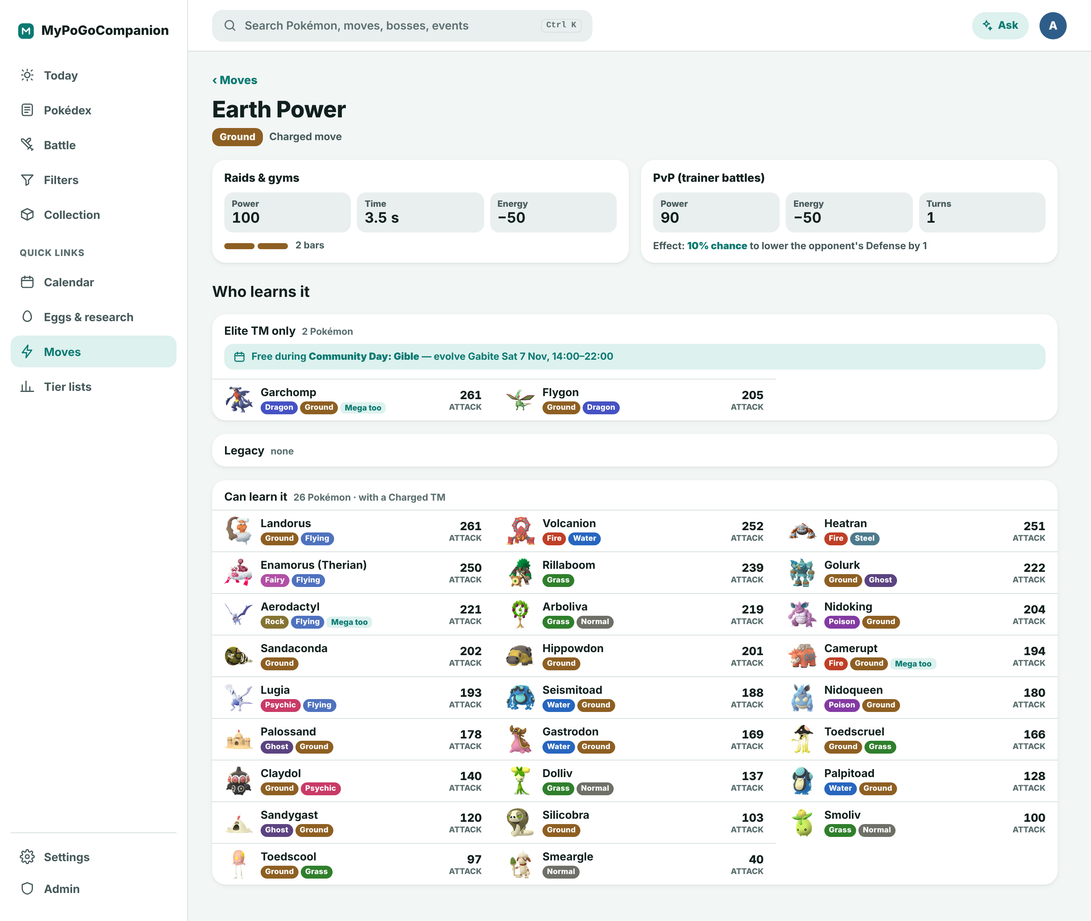
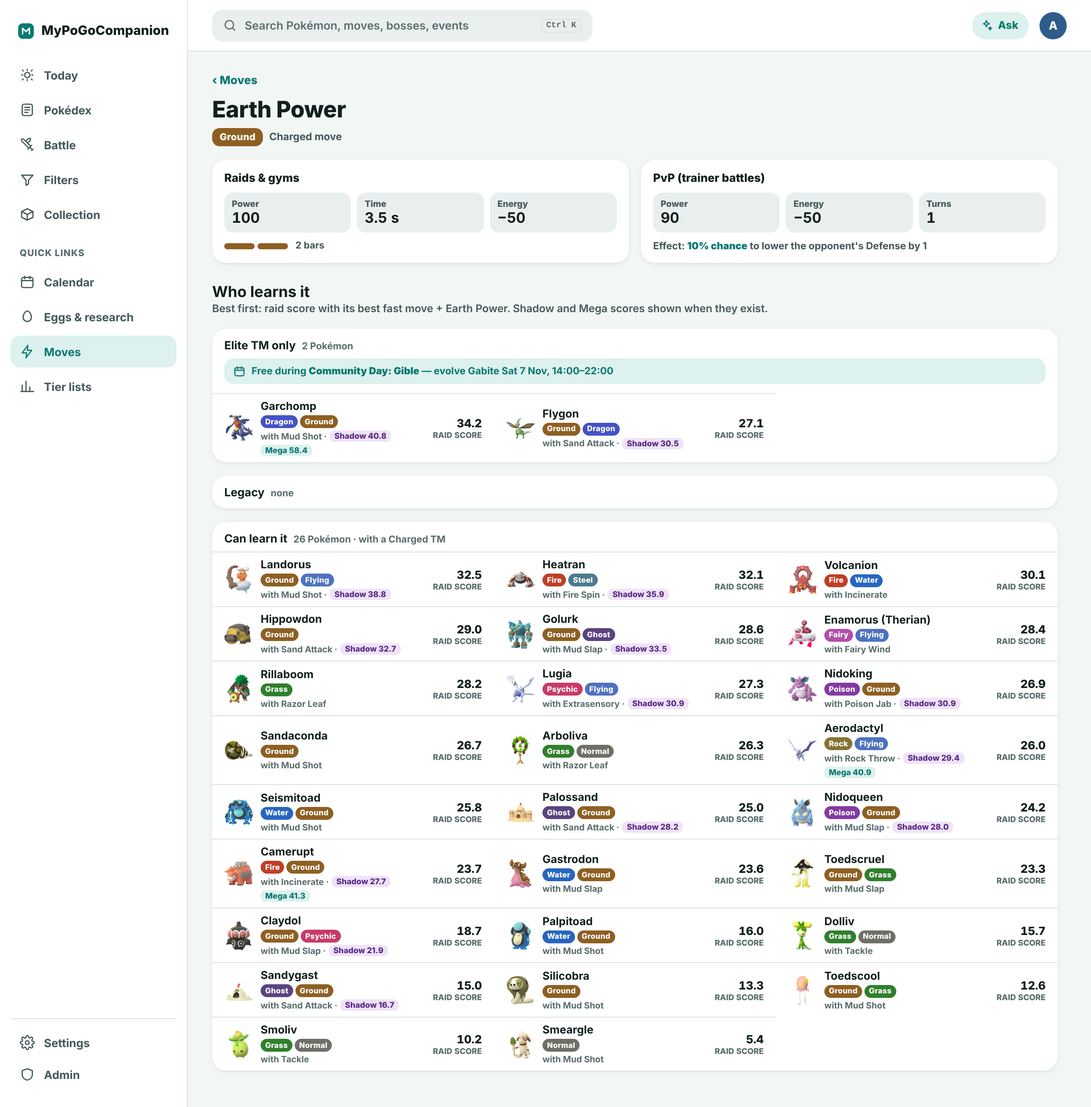
Design: B4 learners sorted by raid score with Earth Power
Claude-Session: https://claude.ai/code/session_014PLsCiJiJmtsciFeh9tQXY

diff --git a/design/source/screens/B4-desktop.html b/design/source/screens/B4-desktop.html
@@ -5,6 +5,6 @@
 <div class="ebar"><i></i><i></i><span style="margin-left:6px">2 bars</span></div></div>
 <div class="card ncard"><h3>PvP (trainer battles)</h3><div class="nums"><div><span>Power</span><b>90</b></div><div><span>Energy</span><b>−50</b></div><div><span>Turns</span><b>1</b></div></div>
 <div class="effect">Effect: <b>10% chance</b> to lower the opponent's Defense by 1</div></div></div>
-<h2 style="margin:8px 0 0;font-size:20px">Who learns it</h2><div class="card" style="overflow:hidden"><div class="grph"><b>Elite TM only</b><span>2 Pokémon</span></div><div class="note"><svg width="16" height="16" viewBox="0 0 24 24" fill="none" stroke="currentColor" stroke-width="2.2" stroke-linecap="round"><rect x="3" y="5" width="18" height="16" rx="3"/><path d="M3 10h18M8 3v4M16 3v4"/></svg><span>Free during <b>Community Day: Gible</b> — evolve Gabite Sat 7 Nov, 14:00–22:00</span></div><div class="lgrid"><div class="lr"><img class="sprite" src="../sprites/445.png" width="38" height="38" alt=""><div class="nm"><b>Garchomp</b><span class="tt"><span class="type dragon">Dragon</span><span class="type ground">Ground</span><span class="ver mega">Mega too</span></span></div><div class="atk">261<span>ATTACK</span></div></div><div class="lr"><img class="sprite" src="../sprites/330.png" width="38" height="38" alt=""><div class="nm"><b>Flygon</b><span class="tt"><span class="type ground">Ground</span><span class="type dragon">Dragon</span></span></div><div class="atk">205<span>ATTACK</span></div></div></div></div>
+<div style="margin-top:8px"><h2 style="margin:0;font-size:20px">Who learns it</h2><div class="sub" style="margin-top:2px;font-size:14px">Best first: raid score with its best fast move + Earth Power. Shadow and Mega scores shown when they exist.</div></div><div class="card" style="overflow:hidden"><div class="grph"><b>Elite TM only</b><span>2 Pokémon</span></div><div class="note"><svg width="16" height="16" viewBox="0 0 24 24" fill="none" stroke="currentColor" stroke-width="2.2" stroke-linecap="round"><rect x="3" y="5" width="18" height="16" rx="3"/><path d="M3 10h18M8 3v4M16 3v4"/></svg><span>Free during <b>Community Day: Gible</b> — evolve Gabite Sat 7 Nov, 14:00–22:00</span></div><div class="lgrid"><div class="lr"><img class="sprite" src="../sprites/445.png" width="38" height="38" alt=""><div class="nm"><b>Garchomp</b><span class="tt"><span class="type dragon">Dragon</span><span class="type ground">Ground</span></span><span class="with">with Mud Shot · <span class="ver shadow">Shadow 40.8</span><span class="ver mega">Mega 58.4</span></span></div><div class="atk">34.2<span>RAID SCORE</span></div></div><div class="lr"><img class="sprite" src="../sprites/330.png" width="38" height="38" alt=""><div class="nm"><b>Flygon</b><span class="tt"><span class="type ground">Ground</span><span class="type dragon">Dragon</span></span><span class="with">with Sand Attack · <span class="ver shadow">Shadow 30.5</span></span></div><div class="atk">27.1<span>RAID SCORE</span></div></div></div></div>
 <div class="card" style="overflow:hidden"><div class="grph" style="padding-bottom:12px"><b>Legacy</b><span>none</span></div></div>
-<div class="card" style="overflow:hidden"><div class="grph"><b>Can learn it</b><span>26 Pokémon · with a Charged TM</span></div><div class="lgrid"><div class="lr"><img class="sprite" src="../sprites/645_11.png" width="38" height="38" alt=""><div class="nm"><b>Landorus</b><span class="tt"><span class="type ground">Ground</span><span class="type flying">Flying</span></span></div><div class="atk">261<span>ATTACK</span></div></div><div class="lr"><img class="sprite" src="../sprites/721.png" width="38" height="38" alt=""><div class="nm"><b>Volcanion</b><span class="tt"><span class="type fire">Fire</span><span class="type water">Water</span></span></div><div class="atk">252<span>ATTACK</span></div></div><div class="lr"><img class="sprite" src="../sprites/485.png" width="38" height="38" alt=""><div class="nm"><b>Heatran</b><span class="tt"><span class="type fire">Fire</span><span class="type steel">Steel</span></span></div><div class="atk">251<span>ATTACK</span></div></div><div class="lr"><img class="sprite" src="../sprites/905_THERIAN.png" width="38" height="38" alt=""><div class="nm"><b>Enamorus (Therian)</b><span class="tt"><span class="type fairy">Fairy</span><span class="type flying">Flying</span></span></div><div class="atk">250<span>ATTACK</span></div></div><div class="lr"><img class="sprite" src="../sprites/812.png" width="38" height="38" alt=""><div class="nm"><b>Rillaboom</b><span class="tt"><span class="type grass">Grass</span></span></div><div class="atk">239<span>ATTACK</span></div></div><div class="lr"><img class="sprite" src="../sprites/623.png" width="38" height="38" alt=""><div class="nm"><b>Golurk</b><span class="tt"><span class="type ground">Ground</span><span class="type ghost">Ghost</span></span></div><div class="atk">222<span>ATTACK</span></div></div><div class="lr"><img class="sprite" src="../sprites/142.png" width="38" height="38" alt=""><div class="nm"><b>Aerodactyl</b><span class="tt"><span class="type rock">Rock</span><span class="type flying">Flying</span><span class="ver mega">Mega too</span></span></div><div class="atk">221<span>ATTACK</span></div></div><div class="lr"><img class="sprite" src="../sprites/930.png" width="38" height="38" alt=""><div class="nm"><b>Arboliva</b><span class="tt"><span class="type grass">Grass</span><span class="type normal">Normal</span></span></div><div class="atk">219<span>ATTACK</span></div></div><div class="lr"><img class="sprite" src="../sprites/034.png" width="38" height="38" alt=""><div class="nm"><b>Nidoking</b><span class="tt"><span class="type poison">Poison</span><span class="type ground">Ground</span></span></div><div class="atk">204<span>ATTACK</span></div></div><div class="lr"><img class="sprite" src="../sprites/844.png" width="38" height="38" alt=""><div class="nm"><b>Sandaconda</b><span class="tt"><span class="type ground">Ground</span></span></div><div class="atk">202<span>ATTACK</span></div></div><div class="lr"><img class="sprite" src="../sprites/450.png" width="38" height="38" alt=""><div class="nm"><b>Hippowdon</b><span class="tt"><span class="type ground">Ground</span></span></div><div class="atk">201<span>ATTACK</span></div></div><div class="lr"><img class="sprite" src="../sprites/323.png" width="38" height="38" alt=""><div class="nm"><b>Camerupt</b><span class="tt"><span class="type fire">Fire</span><span class="type ground">Ground</span><span class="ver mega">Mega too</span></span></div><div class="atk">194<span>ATTACK</span></div></div><div class="lr"><img class="sprite" src="../sprites/249.png" width="38" height="38" alt=""><div class="nm"><b>Lugia</b><span class="tt"><span class="type psychic">Psychic</span><span class="type flying">Flying</span></span></div><div class="atk">193<span>ATTACK</span></div></div><div class="lr"><img class="sprite" src="../sprites/537.png" width="38" height="38" alt=""><div class="nm"><b>Seismitoad</b><span class="tt"><span class="type water">Water</span><span class="type ground">Ground</span></span></div><div class="atk">188<span>ATTACK</span></div></div><div class="lr"><img class="sprite" src="../sprites/031.png" width="38" height="38" alt=""><div class="nm"><b>Nidoqueen</b><span class="tt"><span class="type poison">Poison</span><span class="type ground">Ground</span></span></div><div class="atk">180<span>ATTACK</span></div></div><div class="lr"><img class="sprite" src="../sprites/770.png" width="38" height="38" alt=""><div class="nm"><b>Palossand</b><span class="tt"><span class="type ghost">Ghost</span><span class="type ground">Ground</span></span></div><div class="atk">178<span>ATTACK</span></div></div><div class="lr"><img class="sprite" src="../sprites/423_11.png" width="38" height="38" alt=""><div class="nm"><b>Gastrodon</b><span class="tt"><span class="type water">Water</span><span class="type ground">Ground</span></span></div><div class="atk">169<span>ATTACK</span></div></div><div class="lr"><img class="sprite" src="../sprites/949.png" width="38" height="38" alt=""><div class="nm"><b>Toedscruel</b><span class="tt"><span class="type ground">Ground</span><span class="type grass">Grass</span></span></div><div class="atk">166<span>ATTACK</span></div></div><div class="lr"><img class="sprite" src="../sprites/344.png" width="38" height="38" alt=""><div class="nm"><b>Claydol</b><span class="tt"><span class="type ground">Ground</span><span class="type psychic">Psychic</span></span></div><div class="atk">140<span>ATTACK</span></div></div><div class="lr"><img class="sprite" src="../sprites/929.png" width="38" height="38" alt=""><div class="nm"><b>Dolliv</b><span class="tt"><span class="type grass">Grass</span><span class="type normal">Normal</span></span></div><div class="atk">137<span>ATTACK</span></div></div><div class="lr"><img class="sprite" src="../sprites/536.png" width="38" height="38" alt=""><div class="nm"><b>Palpitoad</b><span class="tt"><span class="type water">Water</span><span class="type ground">Ground</span></span></div><div class="atk">128<span>ATTACK</span></div></div><div class="lr"><img class="sprite" src="../sprites/769.png" width="38" height="38" alt=""><div class="nm"><b>Sandygast</b><span class="tt"><span class="type ghost">Ghost</span><span class="type ground">Ground</span></span></div><div class="atk">120<span>ATTACK</span></div></div><div class="lr"><img class="sprite" src="../sprites/843.png" width="38" height="38" alt=""><div class="nm"><b>Silicobra</b><span class="tt"><span class="type ground">Ground</span></span></div><div class="atk">103<span>ATTACK</span></div></div><div class="lr"><img class="sprite" src="../sprites/928.png" width="38" height="38" alt=""><div class="nm"><b>Smoliv</b><span class="tt"><span class="type grass">Grass</span><span class="type normal">Normal</span></span></div><div class="atk">100<span>ATTACK</span></div></div><div class="lr"><img class="sprite" src="../sprites/948.png" width="38" height="38" alt=""><div class="nm"><b>Toedscool</b><span class="tt"><span class="type ground">Ground</span><span class="type grass">Grass</span></span></div><div class="atk">97<span>ATTACK</span></div></div><div class="lr"><img class="sprite" src="../sprites/235.png" width="38" height="38" alt=""><div class="nm"><b>Smeargle</b><span class="tt"><span class="type normal">Normal</span></span></div><div class="atk">40<span>ATTACK</span></div></div></div></div></div></div></div><script src="../chrome.js"></script></body></html>
+<div class="card" style="overflow:hidden"><div class="grph"><b>Can learn it</b><span>26 Pokémon · with a Charged TM</span></div><div class="lgrid"><div class="lr"><img class="sprite" src="../sprites/645_11.png" width="38" height="38" alt=""><div class="nm"><b>Landorus</b><span class="tt"><span class="type ground">Ground</span><span class="type flying">Flying</span></span><span class="with">with Mud Shot · <span class="ver shadow">Shadow 38.8</span></span></div><div class="atk">32.5<span>RAID SCORE</span></div></div><div class="lr"><img class="sprite" src="../sprites/485.png" width="38" height="38" alt=""><div class="nm"><b>Heatran</b><span class="tt"><span class="type fire">Fire</span><span class="type steel">Steel</span></span><span class="with">with Fire Spin · <span class="ver shadow">Shadow 35.9</span></span></div><div class="atk">32.1<span>RAID SCORE</span></div></div><div class="lr"><img class="sprite" src="../sprites/721.png" width="38" height="38" alt=""><div class="nm"><b>Volcanion</b><span class="tt"><span class="type fire">Fire</span><span class="type water">Water</span></span><span class="with">with Incinerate</span></div><div class="atk">30.1<span>RAID SCORE</span></div></div><div class="lr"><img class="sprite" src="../sprites/450.png" width="38" height="38" alt=""><div class="nm"><b>Hippowdon</b><span class="tt"><span class="type ground">Ground</span></span><span class="with">with Sand Attack · <span class="ver shadow">Shadow 32.7</span></span></div><div class="atk">29.0<span>RAID SCORE</span></div></div><div class="lr"><img class="sprite" src="../sprites/623.png" width="38" height="38" alt=""><div class="nm"><b>Golurk</b><span class="tt"><span class="type ground">Ground</span><span class="type ghost">Ghost</span></span><span class="with">with Mud Slap · <span class="ver shadow">Shadow 33.5</span></span></div><div class="atk">28.6<span>RAID SCORE</span></div></div><div class="lr"><img class="sprite" src="../sprites/905_THERIAN.png" width="38" height="38" alt=""><div class="nm"><b>Enamorus (Therian)</b><span class="tt"><span class="type fairy">Fairy</span><span class="type flying">Flying</span></span><span class="with">with Fairy Wind</span></div><div class="atk">28.4<span>RAID SCORE</span></div></div><div class="lr"><img class="sprite" src="../sprites/812.png" width="38" height="38" alt=""><div class="nm"><b>Rillaboom</b><span class="tt"><span class="type grass">Grass</span></span><span class="with">with Razor Leaf</span></div><div class="atk">28.2<span>RAID SCORE</span></div></div><div class="lr"><img class="sprite" src="../sprites/249.png" width="38" height="38" alt=""><div class="nm"><b>Lugia</b><span class="tt"><span class="type psychic">Psychic</span><span class="type flying">Flying</span></span><span class="with">with Extrasensory · <span class="ver shadow">Shadow 30.9</span></span></div><div class="atk">27.3<span>RAID SCORE</span></div></div><div class="lr"><img class="sprite" src="../sprites/034.png" width="38" height="38" alt=""><div class="nm"><b>Nidoking</b><span class="tt"><span class="type poison">Poison</span><span class="type ground">Ground</span></span><span class="with">with Poison Jab · <span class="ver shadow">Shadow 30.9</span></span></div><div class="atk">26.9<span>RAID SCORE</span></div></div><div class="lr"><img class="sprite" src="../sprites/844.png" width="38" height="38" alt=""><div class="nm"><b>Sandaconda</b><span class="tt"><span class="type ground">Ground</span></span><span class="with">with Mud Shot</span></div><div class="atk">26.7<span>RAID SCORE</span></div></div><div class="lr"><img class="sprite" src="../sprites/930.png" width="38" height="38" alt=""><div class="nm"><b>Arboliva</b><span class="tt"><span class="type grass">Grass</span><span class="type normal">Normal</span></span><span class="with">with Razor Leaf</span></div><div class="atk">26.3<span>RAID SCORE</span></div></div><div class="lr"><img class="sprite" src="../sprites/142.png" width="38" height="38" alt=""><div class="nm"><b>Aerodactyl</b><span class="tt"><span class="type rock">Rock</span><span class="type flying">Flying</span></span><span class="with">with Rock Throw · <span class="ver shadow">Shadow 29.4</span><span class="ver mega">Mega 40.9</span></span></div><div class="atk">26.0<span>RAID SCORE</span></div></div><div class="lr"><img class="sprite" src="../sprites/537.png" width="38" height="38" alt=""><div class="nm"><b>Seismitoad</b><span class="tt"><span class="type water">Water</span><span class="type ground">Ground</span></span><span class="with">with Mud Shot</span></div><div class="atk">25.8<span>RAID SCORE</span></div></div><div class="lr"><img class="sprite" src="../sprites/770.png" width="38" height="38" alt=""><div class="nm"><b>Palossand</b><span class="tt"><span class="type ghost">Ghost</span><span class="type ground">Ground</span></span><span class="with">with Sand Attack · <span class="ver shadow">Shadow 28.2</span></span></div><div class="atk">25.0<span>RAID SCORE</span></div></div><div class="lr"><img class="sprite" src="../sprites/031.png" width="38" height="38" alt=""><div class="nm"><b>Nidoqueen</b><span class="tt"><span class="type poison">Poison</span><span class="type ground">Ground</span></span><span class="with">with Mud Slap · <span class="ver shadow">Shadow 28.0</span></span></div><div class="atk">24.2<span>RAID SCORE</span></div></div><div class="lr"><img class="sprite" src="../sprites/323.png" width="38" height="38" alt=""><div class="nm"><b>Camerupt</b><span class="tt"><span class="type fire">Fire</span><span class="type ground">Ground</span></span><span class="with">with Incinerate · <span class="ver shadow">Shadow 27.7</span><span class="ver mega">Mega 41.3</span></span></div><div class="atk">23.7<span>RAID SCORE</span></div></div><div class="lr"><img class="sprite" src="../sprites/423_11.png" width="38" height="38" alt=""><div class="nm"><b>Gastrodon</b><span class="tt"><span class="type water">Water</span><span class="type ground">Ground</span></span><span class="with">with Mud Slap</span></div><div class="atk">23.6<span>RAID SCORE</span></div></div><div class="lr"><img class="sprite" src="../sprites/949.png" width="38" height="38" alt=""><div class="nm"><b>Toedscruel</b><span class="tt"><span class="type ground">Ground</span><span class="type grass">Grass</span></span><span class="with">with Mud Slap</span></div><div class="atk">23.3<span>RAID SCORE</span></div></div><div class="lr"><img class="sprite" src="../sprites/344.png" width="38" height="38" alt=""><div class="nm"><b>Claydol</b><span class="tt"><span class="type ground">Ground</span><span class="type psychic">Psychic</span></span><span class="with">with Mud Slap · <span class="ver shadow">Shadow 21.9</span></span></div><div class="atk">18.7<span>RAID SCORE</span></div></div><div class="lr"><img class="sprite" src="../sprites/536.png" width="38" height="38" alt=""><div class="nm"><b>Palpitoad</b><span class="tt"><span class="type water">Water</span><span class="type ground">Ground</span></span><span class="with">with Mud Shot</span></div><div class="atk">16.0<span>RAID SCORE</span></div></div><div class="lr"><img class="sprite" src="../sprites/929.png" width="38" height="38" alt=""><div class="nm"><b>Dolliv</b><span class="tt"><span class="type grass">Grass</span><span class="type normal">Normal</span></span><span class="with">with Tackle</span></div><div class="atk">15.7<span>RAID SCORE</span></div></div><div class="lr"><img class="sprite" src="../sprites/769.png" width="38" height="38" alt=""><div class="nm"><b>Sandygast</b><span class="tt"><span class="type ghost">Ghost</span><span class="type ground">Ground</span></span><span class="with">with Sand Attack · <span class="ver shadow">Shadow 16.7</span></span></div><div class="atk">15.0<span>RAID SCORE</span></div></div><div class="lr"><img class="sprite" src="../sprites/843.png" width="38" height="38" alt=""><div class="nm"><b>Silicobra</b><span class="tt"><span class="type ground">Ground</span></span><span class="with">with Mud Shot</span></div><div class="atk">13.3<span>RAID SCORE</span></div></div><div class="lr"><img class="sprite" src="../sprites/948.png" width="38" height="38" alt=""><div class="nm"><b>Toedscool</b><span class="tt"><span class="type ground">Ground</span><span class="type grass">Grass</span></span><span class="with">with Mud Shot</span></div><div class="atk">12.6<span>RAID SCORE</span></div></div><div class="lr"><img class="sprite" src="../sprites/928.png" width="38" height="38" alt=""><div class="nm"><b>Smoliv</b><span class="tt"><span class="type grass">Grass</span><span class="type normal">Normal</span></span><span class="with">with Tackle</span></div><div class="atk">10.2<span>RAID SCORE</span></div></div><div class="lr"><img class="sprite" src="../sprites/235.png" width="38" height="38" alt=""><div class="nm"><b>Smeargle</b><span class="tt"><span class="type normal">Normal</span></span><span class="with">with Mud Shot</span></div><div class="atk">5.4<span>RAID SCORE</span></div></div></div></div></div></div></div><script src="../chrome.js"></script></body></html>

diff --git a/design/source/screens/B4-phone.html b/design/source/screens/B4-phone.html
@@ -3,7 +3,7 @@
 <div class="ebar"><i></i><i></i><span style="margin-left:6px">2 bars</span></div></div>
 <div class="card ncard"><h3>PvP (trainer battles)</h3><div class="nums"><div><span>Power</span><b>90</b></div><div><span>Energy</span><b>−50</b></div><div><span>Turns</span><b>1</b></div></div>
 <div class="effect">Effect: <b>10% chance</b> to lower the opponent's Defense by 1</div></div>
-<h2 style="margin:10px 4px 0;font-size:18px">Who learns it</h2><div class="card" style="overflow:hidden"><div class="grph"><b>Elite TM only</b><span>2 Pokémon</span></div><div class="note"><svg width="16" height="16" viewBox="0 0 24 24" fill="none" stroke="currentColor" stroke-width="2.2" stroke-linecap="round"><rect x="3" y="5" width="18" height="16" rx="3"/><path d="M3 10h18M8 3v4M16 3v4"/></svg><span>Free during <b>Community Day: Gible</b> — evolve Gabite Sat 7 Nov, 14:00–22:00</span></div><div class="lr"><img class="sprite" src="../sprites/445.png" width="38" height="38" alt=""><div class="nm"><b>Garchomp</b><span class="tt"><span class="type dragon">Dragon</span><span class="type ground">Ground</span><span class="ver mega">Mega too</span></span></div><div class="atk">261<span>ATTACK</span></div></div><div class="lr"><img class="sprite" src="../sprites/330.png" width="38" height="38" alt=""><div class="nm"><b>Flygon</b><span class="tt"><span class="type ground">Ground</span><span class="type dragon">Dragon</span></span></div><div class="atk">205<span>ATTACK</span></div></div></div>
+<div style="margin:10px 4px 0"><h2 style="margin:0;font-size:18px">Who learns it</h2><div class="sub" style="margin-top:2px">Best first: raid score with its best fast move + Earth Power</div></div><div class="card" style="overflow:hidden"><div class="grph"><b>Elite TM only</b><span>2 Pokémon</span></div><div class="note"><svg width="16" height="16" viewBox="0 0 24 24" fill="none" stroke="currentColor" stroke-width="2.2" stroke-linecap="round"><rect x="3" y="5" width="18" height="16" rx="3"/><path d="M3 10h18M8 3v4M16 3v4"/></svg><span>Free during <b>Community Day: Gible</b> — evolve Gabite Sat 7 Nov, 14:00–22:00</span></div><div class="lr"><img class="sprite" src="../sprites/445.png" width="38" height="38" alt=""><div class="nm"><b>Garchomp</b><span class="tt"><span class="type dragon">Dragon</span><span class="type ground">Ground</span></span><span class="with">with Mud Shot · <span class="ver shadow">Shadow 40.8</span><span class="ver mega">Mega 58.4</span></span></div><div class="atk">34.2<span>RAID SCORE</span></div></div><div class="lr"><img class="sprite" src="../sprites/330.png" width="38" height="38" alt=""><div class="nm"><b>Flygon</b><span class="tt"><span class="type ground">Ground</span><span class="type dragon">Dragon</span></span><span class="with">with Sand Attack · <span class="ver shadow">Shadow 30.5</span></span></div><div class="atk">27.1<span>RAID SCORE</span></div></div></div>
 <div class="card" style="overflow:hidden"><div class="grph" style="padding-bottom:12px"><b>Legacy</b><span>none</span></div></div>
-<div class="card" style="overflow:hidden"><div class="grph"><b>Can learn it</b><span>26 Pokémon · with a Charged TM</span></div><div class="lr"><img class="sprite" src="../sprites/645_11.png" width="38" height="38" alt=""><div class="nm"><b>Landorus</b><span class="tt"><span class="type ground">Ground</span><span class="type flying">Flying</span></span></div><div class="atk">261<span>ATTACK</span></div></div><div class="lr"><img class="sprite" src="../sprites/721.png" width="38" height="38" alt=""><div class="nm"><b>Volcanion</b><span class="tt"><span class="type fire">Fire</span><span class="type water">Water</span></span></div><div class="atk">252<span>ATTACK</span></div></div><div class="lr"><img class="sprite" src="../sprites/485.png" width="38" height="38" alt=""><div class="nm"><b>Heatran</b><span class="tt"><span class="type fire">Fire</span><span class="type steel">Steel</span></span></div><div class="atk">251<span>ATTACK</span></div></div><div class="lr"><img class="sprite" src="../sprites/905_THERIAN.png" width="38" height="38" alt=""><div class="nm"><b>Enamorus (Therian)</b><span class="tt"><span class="type fairy">Fairy</span><span class="type flying">Flying</span></span></div><div class="atk">250<span>ATTACK</span></div></div><div class="lr"><img class="sprite" src="../sprites/812.png" width="38" height="38" alt=""><div class="nm"><b>Rillaboom</b><span class="tt"><span class="type grass">Grass</span></span></div><div class="atk">239<span>ATTACK</span></div></div><div class="lr"><img class="sprite" src="../sprites/623.png" width="38" height="38" alt=""><div class="nm"><b>Golurk</b><span class="tt"><span class="type ground">Ground</span><span class="type ghost">Ghost</span></span></div><div class="atk">222<span>ATTACK</span></div></div><div class="lr"><img class="sprite" src="../sprites/142.png" width="38" height="38" alt=""><div class="nm"><b>Aerodactyl</b><span class="tt"><span class="type rock">Rock</span><span class="type flying">Flying</span><span class="ver mega">Mega too</span></span></div><div class="atk">221<span>ATTACK</span></div></div><div class="lr"><img class="sprite" src="../sprites/930.png" width="38" height="38" alt=""><div class="nm"><b>Arboliva</b><span class="tt"><span class="type grass">Grass</span><span class="type normal">Normal</span></span></div><div class="atk">219<span>ATTACK</span></div></div><div style="border-top:1px solid var(--line);padding:12px 16px;text-align:center;font-weight:800;color:var(--accent);font-size:14.5px">Show all 26 ›</div></div></div></div>
+<div class="card" style="overflow:hidden"><div class="grph"><b>Can learn it</b><span>26 Pokémon · with a Charged TM</span></div><div class="lr"><img class="sprite" src="../sprites/645_11.png" width="38" height="38" alt=""><div class="nm"><b>Landorus</b><span class="tt"><span class="type ground">Ground</span><span class="type flying">Flying</span></span><span class="with">with Mud Shot · <span class="ver shadow">Shadow 38.8</span></span></div><div class="atk">32.5<span>RAID SCORE</span></div></div><div class="lr"><img class="sprite" src="../sprites/485.png" width="38" height="38" alt=""><div class="nm"><b>Heatran</b><span class="tt"><span class="type fire">Fire</span><span class="type steel">Steel</span></span><span class="with">with Fire Spin · <span class="ver shadow">Shadow 35.9</span></span></div><div class="atk">32.1<span>RAID SCORE</span></div></div><div class="lr"><img class="sprite" src="../sprites/721.png" width="38" height="38" alt=""><div class="nm"><b>Volcanion</b><span class="tt"><span class="type fire">Fire</span><span class="type water">Water</span></span><span class="with">with Incinerate</span></div><div class="atk">30.1<span>RAID SCORE</span></div></div><div class="lr"><img class="sprite" src="../sprites/450.png" width="38" height="38" alt=""><div class="nm"><b>Hippowdon</b><span class="tt"><span class="type ground">Ground</span></span><span class="with">with Sand Attack · <span class="ver shadow">Shadow 32.7</span></span></div><div class="atk">29.0<span>RAID SCORE</span></div></div><div class="lr"><img class="sprite" src="../sprites/623.png" width="38" height="38" alt=""><div class="nm"><b>Golurk</b><span class="tt"><span class="type ground">Ground</span><span class="type ghost">Ghost</span></span><span class="with">with Mud Slap · <span class="ver shadow">Shadow 33.5</span></span></div><div class="atk">28.6<span>RAID SCORE</span></div></div><div class="lr"><img class="sprite" src="../sprites/905_THERIAN.png" width="38" height="38" alt=""><div class="nm"><b>Enamorus (Therian)</b><span class="tt"><span class="type fairy">Fairy</span><span class="type flying">Flying</span></span><span class="with">with Fairy Wind</span></div><div class="atk">28.4<span>RAID SCORE</span></div></div><div class="lr"><img class="sprite" src="../sprites/812.png" width="38" height="38" alt=""><div class="nm"><b>Rillaboom</b><span class="tt"><span class="type grass">Grass</span></span><span class="with">with Razor Leaf</span></div><div class="atk">28.2<span>RAID SCORE</span></div></div><div class="lr"><img class="sprite" src="../sprites/249.png" width="38" height="38" alt=""><div class="nm"><b>Lugia</b><span class="tt"><span class="type psychic">Psychic</span><span class="type flying">Flying</span></span><span class="with">with Extrasensory · <span class="ver shadow">Shadow 30.9</span></span></div><div class="atk">27.3<span>RAID SCORE</span></div></div><div style="border-top:1px solid var(--line);padding:12px 16px;text-align:center;font-weight:800;color:var(--accent);font-size:14.5px">Show all 26 ›</div></div></div></div>
 <div data-tabbar="pokedex"></div></div></div></div><script src="../chrome.js"></script></body></html>

diff --git a/design/source/screens/_b4.css b/design/source/screens/_b4.css
@@ -26,3 +26,5 @@
 .empty { padding: 4px 16px 14px; font-size: 13.5px; color: var(--text-2); font-weight: 600; }
 .lgrid { display: grid; grid-template-columns: repeat(3, minmax(0, 1fr)); column-gap: 0; }
 .lgrid .lr { border-top: 1px solid var(--line); }
+.lr .with { font-size: 11.5px; font-weight: 700; color: var(--text-3); display: flex; gap: 4px; align-items: center; flex-wrap: wrap; }
+.lr .with .ver { font-size: 10.5px; }

diff --git a/design/source/screens/gen_b4.py b/design/source/screens/gen_b4.py
@@ -2,26 +2,40 @@
 import pathlib
 HERE = pathlib.Path(__file__).parent
 # sprite, name, types, attack, has Mega that also learns it
-ELITE = [("445", "Garchomp", ["dragon", "ground"], 261, True), ("330", "Flygon", ["ground", "dragon"], 205, False)]
-NORMAL = [("645_11", "Landorus", ["ground", "flying"], 261, False), ("323", "Camerupt", ["fire", "ground"], 194, True),
-          ("721", "Volcanion", ["fire", "water"], 252, False), ("485", "Heatran", ["fire", "steel"], 251, False),
-          ("905_THERIAN", "Enamorus (Therian)", ["fairy", "flying"], 250, False), ("812", "Rillaboom", ["grass"], 239, False),
-          ("623", "Golurk", ["ground", "ghost"], 222, False), ("142", "Aerodactyl", ["rock", "flying"], 221, True),
-          ("930", "Arboliva", ["grass", "normal"], 219, False), ("034", "Nidoking", ["poison", "ground"], 204, False),
-          ("844", "Sandaconda", ["ground"], 202, False), ("450", "Hippowdon", ["ground"], 201, False),
-          ("249", "Lugia", ["psychic", "flying"], 193, False), ("537", "Seismitoad", ["water", "ground"], 188, False),
-          ("031", "Nidoqueen", ["poison", "ground"], 180, False), ("770", "Palossand", ["ghost", "ground"], 178, False),
-          ("423_11", "Gastrodon", ["water", "ground"], 169, False), ("949", "Toedscruel", ["ground", "grass"], 166, False),
-          ("344", "Claydol", ["ground", "psychic"], 140, False), ("929", "Dolliv", ["grass", "normal"], 137, False),
-          ("536", "Palpitoad", ["water", "ground"], 128, False), ("769", "Sandygast", ["ghost", "ground"], 120, False),
-          ("843", "Silicobra", ["ground"], 103, False), ("928", "Smoliv", ["grass", "normal"], 100, False),
-          ("948", "Toedscool", ["ground", "grass"], 97, False), ("235", "Smeargle", ["normal"], 40, False)]
-NORMAL.sort(key=lambda r: -r[3])
+# sprite, name, types, raid score with its best fast move + Earth Power, fast move, versions {kind: score}
+ELITE = [("445", "Garchomp", ["dragon", "ground"], 34.2, "Mud Shot", {"Shadow": 40.8, "Mega": 58.4}),
+         ("330", "Flygon", ["ground", "dragon"], 27.1, "Sand Attack", {"Shadow": 30.5})]
+NORMAL = [("645_11", "Landorus", ["ground", "flying"], 32.5, "Mud Shot", {"Shadow": 38.8}),
+          ("485", "Heatran", ["fire", "steel"], 32.1, "Fire Spin", {"Shadow": 35.9}),
+          ("721", "Volcanion", ["fire", "water"], 30.1, "Incinerate", {}),
+          ("450", "Hippowdon", ["ground"], 29.0, "Sand Attack", {"Shadow": 32.7}),
+          ("623", "Golurk", ["ground", "ghost"], 28.6, "Mud Slap", {"Shadow": 33.5}),
+          ("905_THERIAN", "Enamorus (Therian)", ["fairy", "flying"], 28.4, "Fairy Wind", {}),
+          ("812", "Rillaboom", ["grass"], 28.2, "Razor Leaf", {}),
+          ("249", "Lugia", ["psychic", "flying"], 27.3, "Extrasensory", {"Shadow": 30.9}),
+          ("034", "Nidoking", ["poison", "ground"], 26.9, "Poison Jab", {"Shadow": 30.9}),
+          ("844", "Sandaconda", ["ground"], 26.7, "Mud Shot", {}),
+          ("930", "Arboliva", ["grass", "normal"], 26.3, "Razor Leaf", {}),
+          ("142", "Aerodactyl", ["rock", "flying"], 26.0, "Rock Throw", {"Shadow": 29.4, "Mega": 40.9}),
+          ("537", "Seismitoad", ["water", "ground"], 25.8, "Mud Shot", {}),
+          ("770", "Palossand", ["ghost", "ground"], 25.0, "Sand Attack", {"Shadow": 28.2}),
+          ("031", "Nidoqueen", ["poison", "ground"], 24.2, "Mud Slap", {"Shadow": 28.0}),
+          ("323", "Camerupt", ["fire", "ground"], 23.7, "Incinerate", {"Shadow": 27.7, "Mega": 41.3}),
+          ("423_11", "Gastrodon", ["water", "ground"], 23.6, "Mud Slap", {}),
+          ("949", "Toedscruel", ["ground", "grass"], 23.3, "Mud Slap", {}),
+          ("344", "Claydol", ["ground", "psychic"], 18.7, "Mud Slap", {"Shadow": 21.9}),
+          ("536", "Palpitoad", ["water", "ground"], 16.0, "Mud Shot", {}),
+          ("929", "Dolliv", ["grass", "normal"], 15.7, "Tackle", {}),
+          ("769", "Sandygast", ["ghost", "ground"], 15.0, "Sand Attack", {"Shadow": 16.7}),
+          ("843", "Silicobra", ["ground"], 13.3, "Mud Shot", {}),
+          ("948", "Toedscool", ["ground", "grass"], 12.6, "Mud Shot", {}),
+          ("928", "Smoliv", ["grass", "normal"], 10.2, "Tackle", {}),
+          ("235", "Smeargle", ["normal"], 5.4, "Mud Shot", {})]
 T = lambda ts: ''.join(f'<span class="type {t}">{t.capitalize()}</span>' for t in ts)
 def lr(r):
-    sp, n, ts, a, mega = r
-    m = '<span class="ver mega">Mega too</span>' if mega else ''
-    return f'<div class="lr"><img class="sprite" src="../sprites/{sp}.png" width="38" height="38" alt=""><div class="nm"><b>{n}</b><span class="tt">{T(ts)}{m}</span></div><div class="atk">{a}<span>ATTACK</span></div></div>'
+    sp, n, ts, sc, fast, vs = r
+    v = ''.join(f'<span class="ver {k.lower()}">{k} {x}</span>' for k, x in vs.items())
+    return f'<div class="lr"><img class="sprite" src="../sprites/{sp}.png" width="38" height="38" alt=""><div class="nm"><b>{n}</b><span class="tt">{T(ts)}</span><span class="with">with {fast}{" · " if v else ""}{v}</span></div><div class="atk">{sc}<span>RAID SCORE</span></div></div>'
 CAL = '<svg width="16" height="16" viewBox="0 0 24 24" fill="none" stroke="currentColor" stroke-width="2.2" stroke-linecap="round"><rect x="3" y="5" width="18" height="16" rx="3"/><path d="M3 10h18M8 3v4M16 3v4"/></svg>'
 NOTE = f'<div class="note">{CAL}<span>Free during <b>Community Day: Gible</b> — evolve Gabite Sat 7 Nov, 14:00–22:00</span></div>'
 MORE = '<div style="border-top:1px solid var(--line);padding:12px 16px;text-align:center;font-weight:800;color:var(--accent);font-size:14.5px">Show all 26 ›</div>'
@@ -39,12 +53,12 @@ head = '<!doctype html><html lang="en"><head><meta charset="utf-8"><title>B4 Mov
 mhead = f'<div class="mhead"><h1>Earth Power</h1><div class="meta"><span class="type ground">Ground</span>Charged move</div></div>'
 phone = head + f'''<div class="stage"><div class="device"><div class="screen"><div data-statusbar></div><div data-dethead="Moves|"></div>{mhead}
 <div class="scroll"><div style="padding:14px 12px 20px;display:flex;flex-direction:column;gap:12px">{nums()}
-<h2 style="margin:10px 4px 0;font-size:18px">Who learns it</h2>{groups(limit=8)}</div></div>
+<div style="margin:10px 4px 0"><h2 style="margin:0;font-size:18px">Who learns it</h2><div class="sub" style="margin-top:2px">Best first: raid score with its best fast move + Earth Power</div></div>{groups(limit=8)}</div></div>
 <div data-tabbar="pokedex"></div></div></div></div><script src="../chrome.js"></script></body></html>'''
 desk = head + f'''<div class="desktop"><div data-sidebar="moves"></div><div class="main"><div data-topbar></div>
 <div class="content" style="max-width:1180px;display:flex;flex-direction:column;gap:18px">
 <a class="backlink">‹ Moves</a><div style="display:flex;flex-direction:column;gap:6px;margin-top:-6px"><h1 class="bigtitle">Earth Power</h1><div class="mhead" style="padding:0;background:none;border:0"><div class="meta"><span class="type ground">Ground</span>Charged move</div></div></div>
 <div style="display:grid;grid-template-columns:1fr 1fr;gap:16px">{nums()}</div>
-<h2 style="margin:8px 0 0;font-size:20px">Who learns it</h2>{groups(True)}</div></div></div><script src="../chrome.js"></script></body></html>'''
+<div style="margin-top:8px"><h2 style="margin:0;font-size:20px">Who learns it</h2><div class="sub" style="margin-top:2px;font-size:14px">Best first: raid score with its best fast move + Earth Power. Shadow and Mega scores shown when they exist.</div></div>{groups(True)}</div></div></div><script src="../chrome.js"></script></body></html>'''
 (HERE / 'B4-phone.html').write_text(phone)
 (HERE / 'B4-desktop.html').write_text(desk)

diff --git a/design/source/CONVENTIONS.md b/design/source/CONVENTIONS.md
@@ -53,3 +53,4 @@ All screens show the same moment and the same trainer, so they tell one consiste
 - **Collection:** 2,148 Pokémon; last import Sun 25 Oct 21:14 (63 new, 40 gone, 12 changed). Includes a Garchomp 2/15/13 L23 (UL rank 232, 97.9%, CP 2,471); the Gible family: Gible 15/15/14 (→ Garchomp ML rank 3, 99.5%), Gible 0/15/14 (→ GL rank 1, CP 1,495), Gible 1/13/15 (→ GL rank 11, 99.4%), Gible 10/4/2 (no league above 95%), Gabite 12/12/13 (→ ML rank 160, 96.6%), a Medicham 1/15/15 L49.5 (GL rank 12), Shadow Zekrom, Zeraora, Mega-ready Sceptile.
 - **Kyogre counters** (from today's raid model, same numbers on every screen): Mega Sceptile 57.3 (Mega slot) · Shadow Zekrom 44.6 · Zeraora 41.5 · Shadow Raikou 41.2 · Shadow Electivire 39.8 · Shadow Chesnaught 39.3 · Zarude 39.2 · Regieleki 39.2 · Xurkitree 39.1.
 - **Garchomp** (B2 example): Atk 261 · Def 193 · Sta 239 · max CP 3,962 / 4,479 / 4,532 (L40/50/51) · 100% CP 1,698 (L15) / 2,264 (L20) / 2,830 (L25) / 3,396 (L30) / 3,679 (L35) · ML #31 (Shadow #26) · Ground raids #12 (Shadow #5, Mega #2) · GL best IVs 0/15/14.
+- **Earth Power** (B4 example): Ground charged move · raids 100 power · 3.5 s · −50 (2 bars) · PvP 90 · −50 · 10% chance foe Defense −1. Learners sorted by raid score with their best fast move (Ground fast when they have one) + Earth Power: Elite TM only Garchomp 34.2 (Shadow 40.8, Mega 58.4) and Flygon 27.1; no legacy learners; 26 learn it normally, led by Landorus 32.5, Heatran 32.1, Volcanion 30.1.
